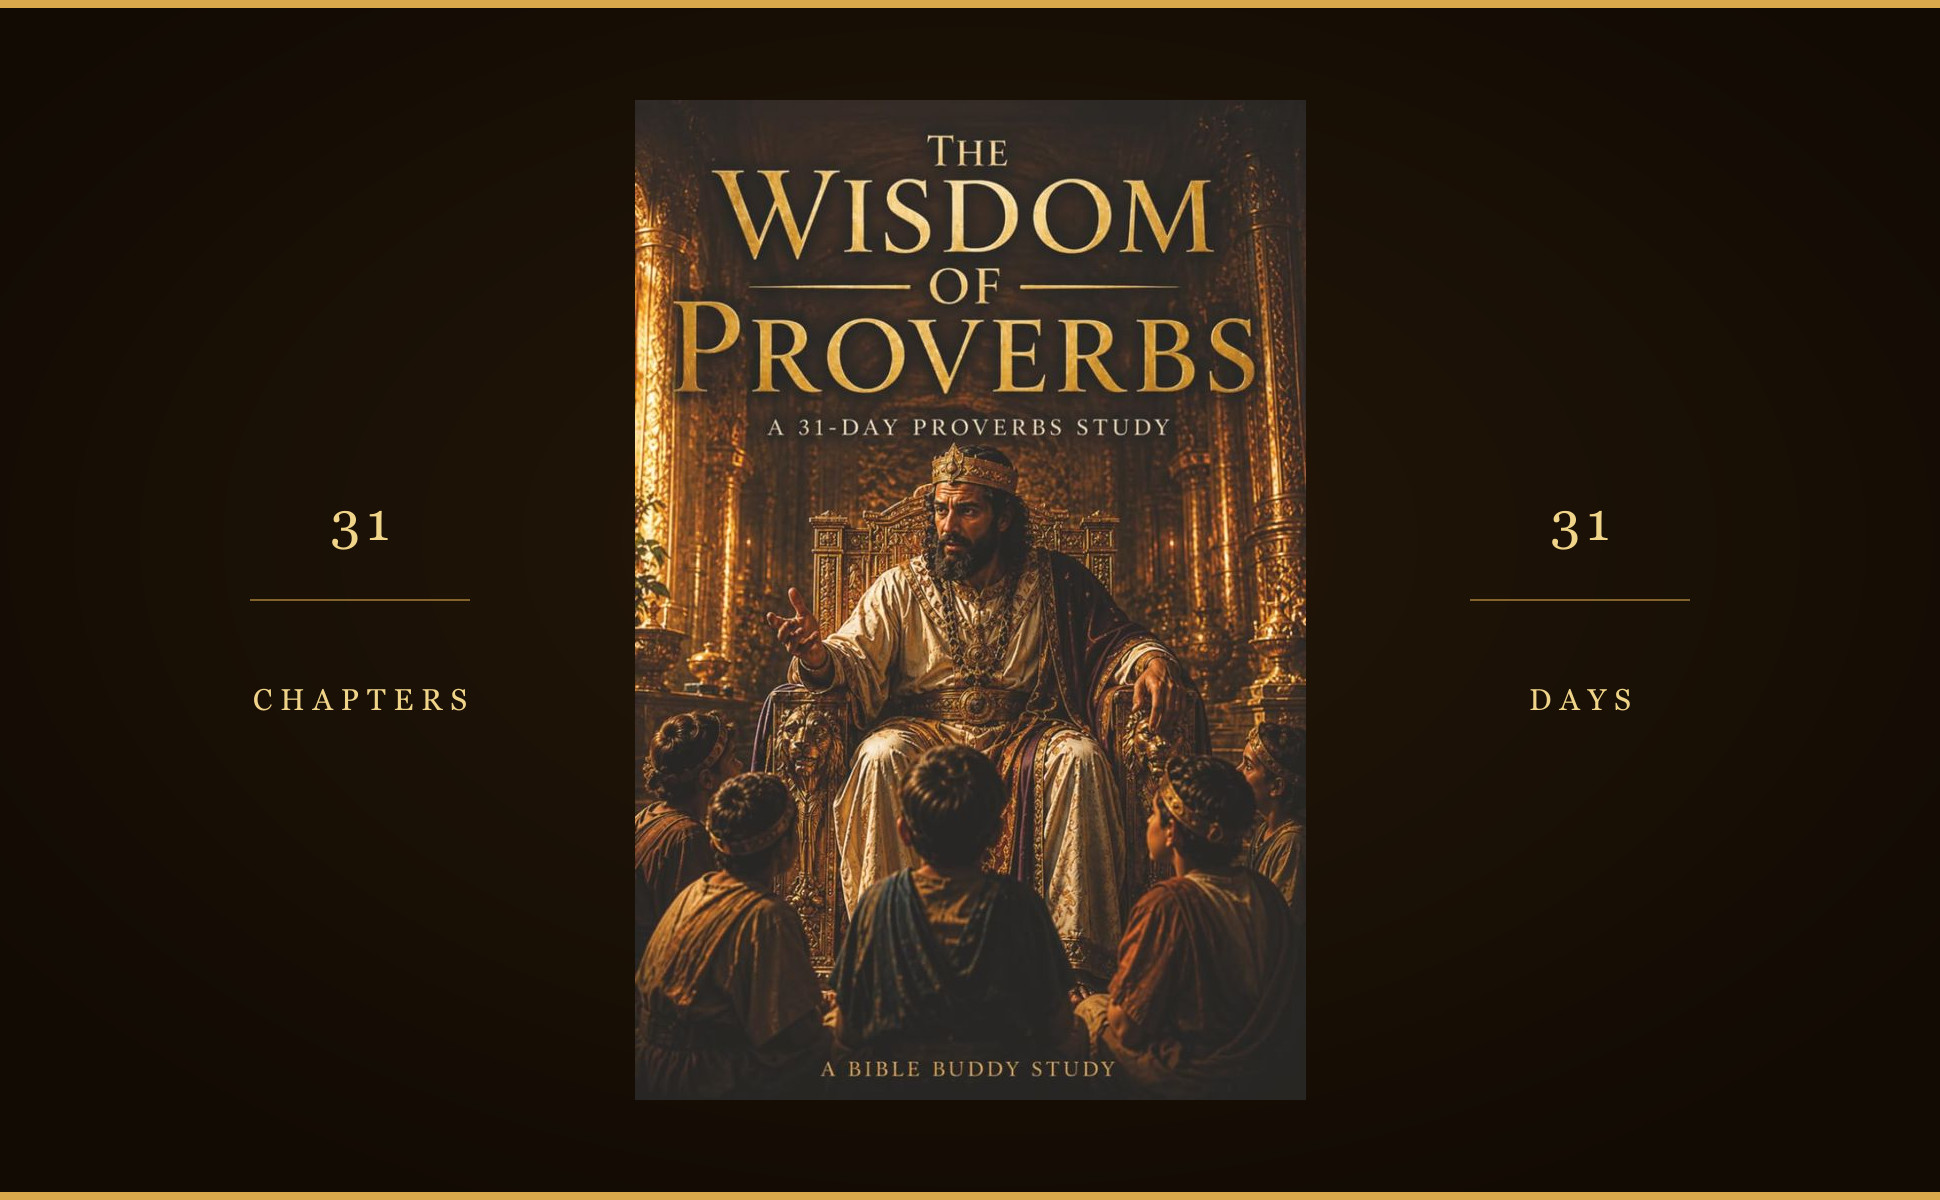
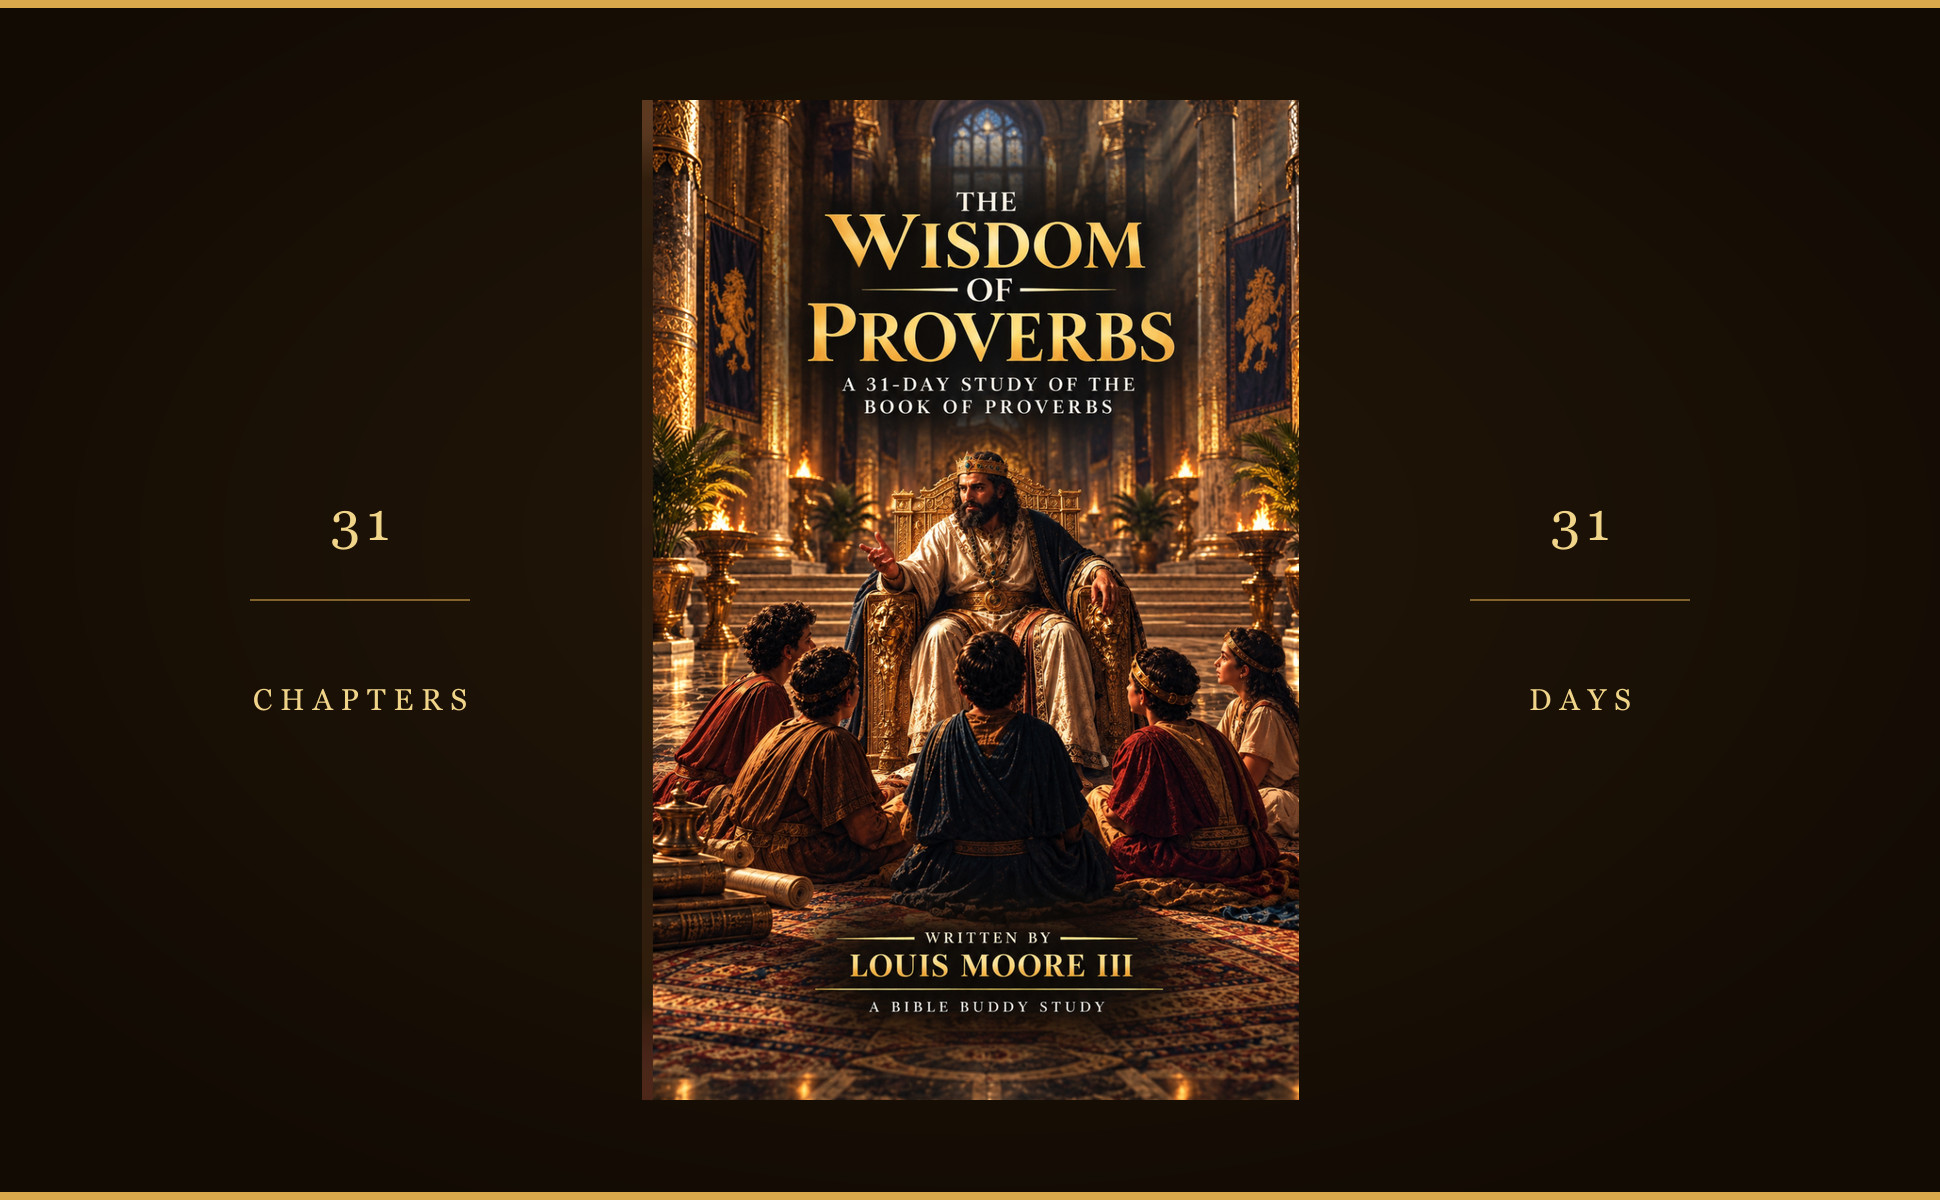
A+ modules rebuilt from the Second Edition, and drafted in KDP
The hardcover going live is the Second Edition, so the A+ images had to come
from it rather than from the old files: module 1 is the new cover (the front
panel lifted from the print-ready wrap), and the page previews are rendered
from the 440-page interior - Today's Reading, Reflection Questions and Today's
Prayer, which in this edition are pages 13, 23 and 25.

Module 2 is now one wide image instead of three squares. The three-image module
puts its own text under each picture, which would have meant chopping Louis's
one approved sentence into three captions he never wrote, so the layout bends
and the words stay exactly as given.

The content itself is drafted in KDP's A+ Content Manager for Amazon.de, in
English, with all three headlines and bodies entered verbatim. Images still
have to be dropped in by hand: that dialog only accepts a native file picker,
which this session cannot drive.

Changed region(s): [[0.3093, 0.0617, 0.6804, 0.925]]

diff --git a/docs/amazon/wisdom-of-proverbs/aplus/module-copy.md b/docs/amazon/wisdom-of-proverbs/aplus/module-copy.md
@@ -26,31 +26,23 @@ cover's own colours. Nothing about the cover art was changed.
 
 ---
 
-## Module 2 — Standard Three Images & Text
+## Module 2 — Standard Image Header with Text
 
 **Headline**
 
-```
-See Inside the Study
-```
-
+\
 **Body**
 
-```
-Explore the chapter, consider its connections to Scripture, and work through reflection questions, a practical action and prayer.
-```
+\
+**Image:**  — 1940 × 1200 px
 
-**Images** (1200 × 1200 px each, from the published 446-page interior):
+Three real pages side by side: Today's Reading (p13), Reflection Questions
+(p23) and Today's Prayer (p25) of the Second Edition interior, rendered at 3x
+and cropped to the top of each page.
 
-| File | Page | Shows |
-|---|---|---|
-| `module-2-img-1-reading.jpg` | p. 12 | Day 1 — Today's Reading, Proverbs 1, Before You Read |
-| `module-2-img-2-reflection.jpg` | p. 20 | Day 1 — Reflection Questions |
-| `module-2-img-3-prayer.jpg` | p. 22 | Day 1 — Today's Prayer |
-
-These are real pages, rendered from the interior PDF at 3× and cropped to the
-top of each page so the headings stay readable on a phone. No page text was
-altered, retyped or generated.
+One wide image rather than the three-image module on purpose: that module puts
+separate text under each image, which would have meant splitting the approved
+sentence into three captions nobody wrote.
 
 ---
 
